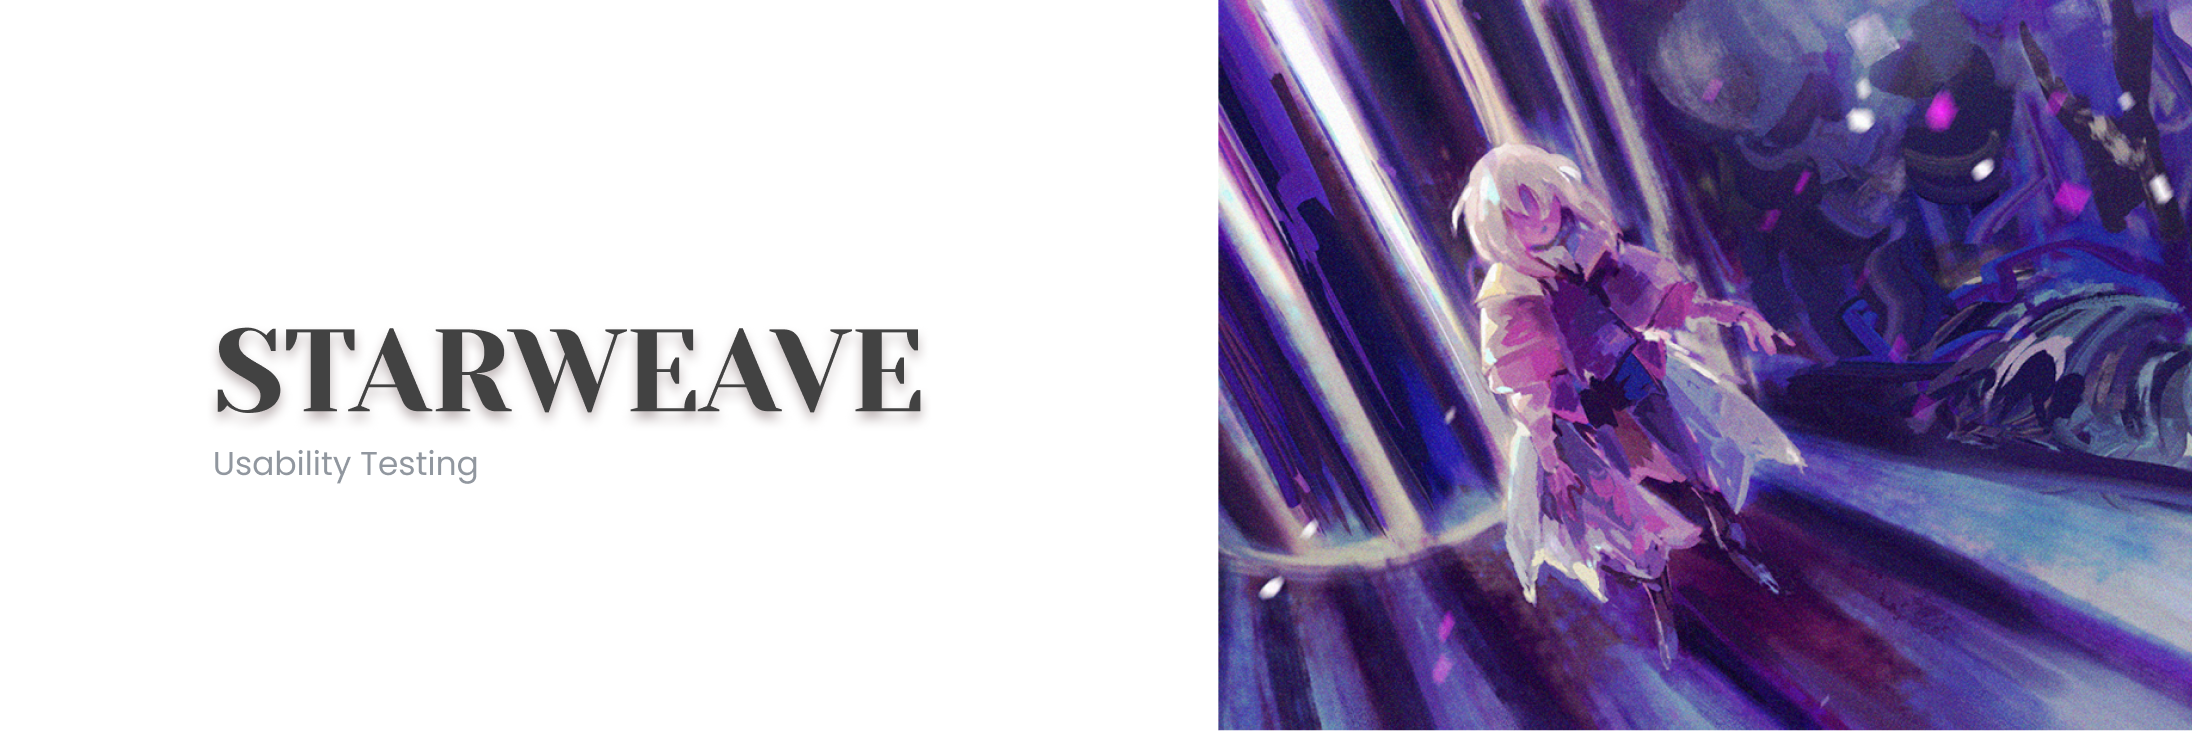
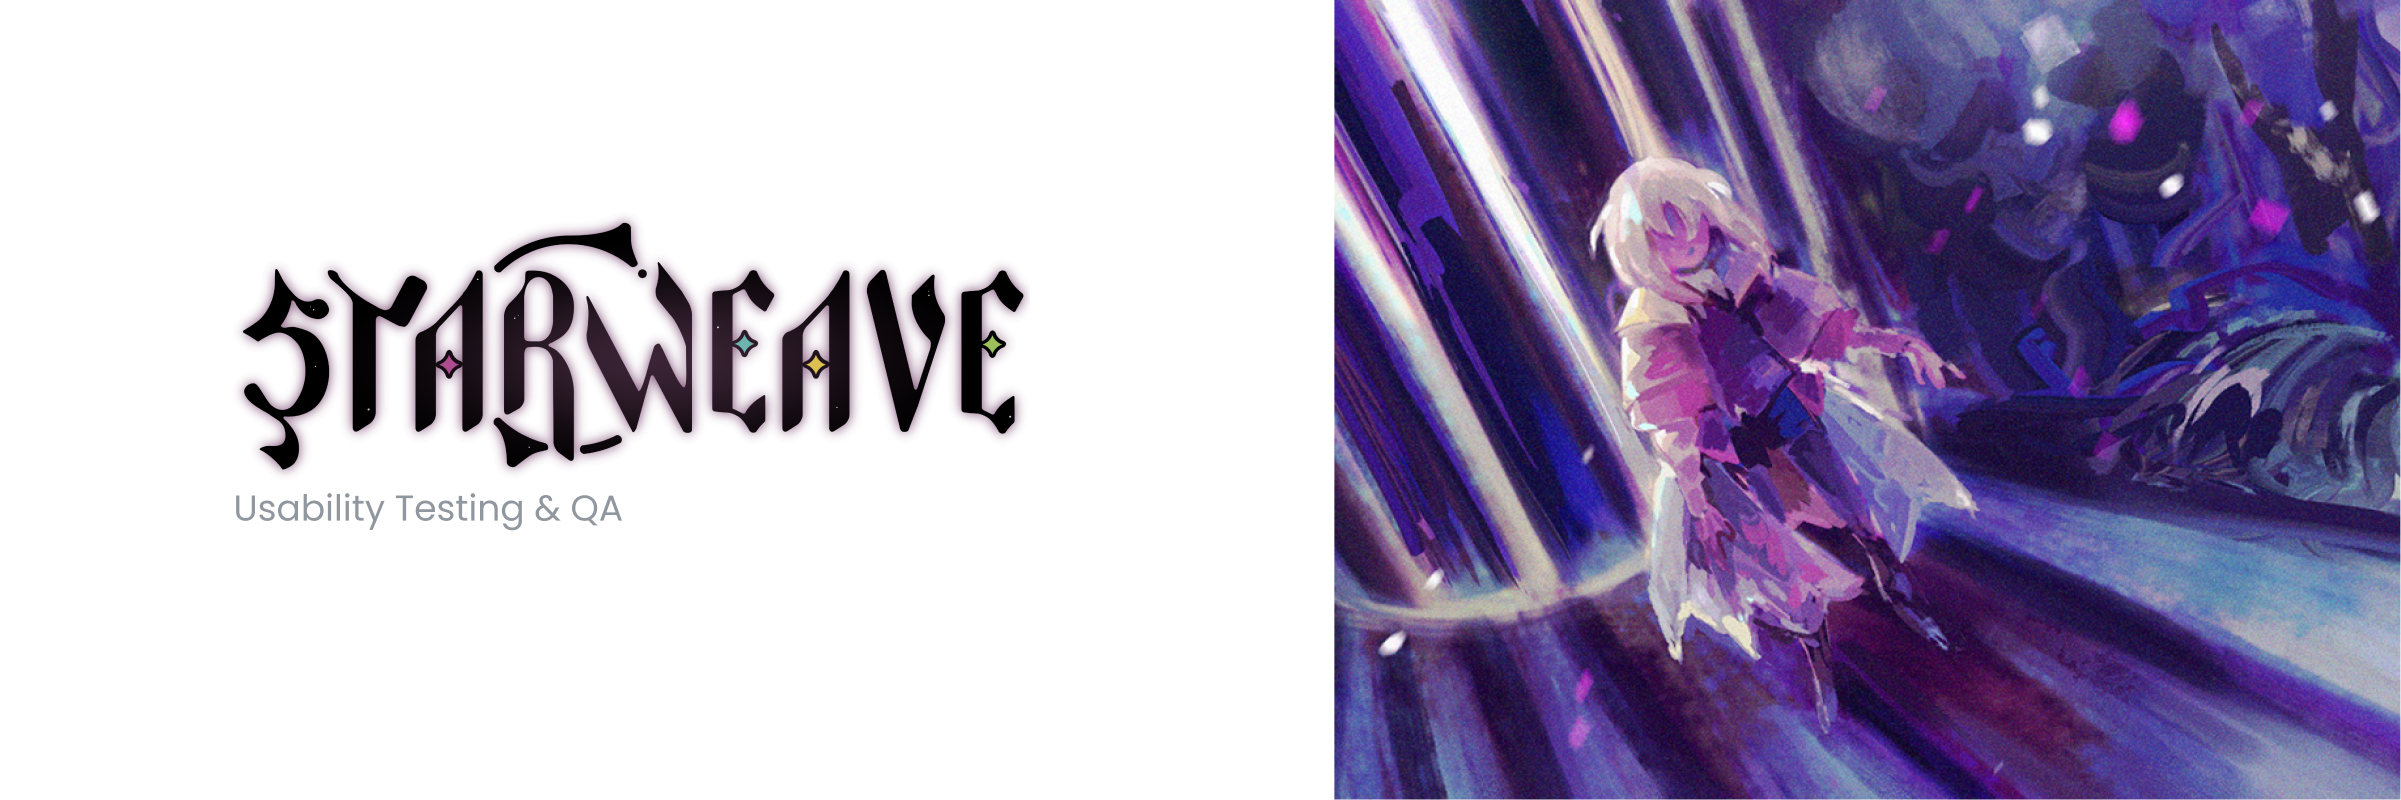
STARWEAVE project update

diff --git a/starweave.html b/starweave.html
@@ -76,6 +76,14 @@
             <li class="starweave-content-navigation-list-item">
               <a href="#project-overview">project overview</a>
             </li>
+
+            <li class="starweave-content-navigation-list-item">
+              <a href="#timeline">timeline</a>
+            </li>
+
+            <li class="starweave-content-navigation-list-item">
+              <a href="#playtesting process">playtesting process</a>
+            </li>
           </ul>
         </nav>
       </div>
@@ -92,8 +100,8 @@
           <h2 class="starweave-content-description-subtitle">project overview —</h2>
           <!-- "starweave-content-description-content" is the class required for a paragraph of content for the section -->
           <p class="starweave-content-description-content">
-            <i>STARWEAVE</i> is a single-player narrative game that utilizes squad rpg and novel
-            command-refusal mechanics to tell a story about unsuitable roels in a broken
+            STARWEAVE is a single-player narrative game that utilizes squad rpg and novel
+            command-refusal mechanics to tell a story about unsuitable roles in a broken
             system. Players will experience empathy and understand the nuances behind a
             cast of hurting teenagers.
           </p>
@@ -101,7 +109,7 @@
           <div class="starweave-content-description-table">
             <div class="starweave-content-description-table-element">
               <h3>role —</h3>
-              <p>usability tester & qa tester</p>
+              <p>usability & qa manager</p>
             </div>
             <div class="starweave-content-description-table-element">
               <h3>timeline —</h3>
@@ -109,18 +117,87 @@
             </div>
             <div class="starweave-content-description-table-element">
               <h3>skills —</h3>
-              <p>reporting bugs</p>
+              <p>test management</p>
+              <p>debugging</p>
             </div>
             <div class="starweave-content-description-table-element">
               <h3>tools —</h3>
+              <p>clickup</p>
               <p>google forms</p>
               <p>zoom</p>
             </div>
           </div>
         </div>
         <p class="starweave-content-description-image-caption">
-          This project is currently WIP :D Come back later for more information!
+          <b>This project is currently WIP :D Come back later for more information!</b>
         </p>
+
+        <!-- new page section that is included in the page menu -->
+        <div class="starweave-content-description-section" id="timeline">
+          <h2 class="starweave-content-description-subtitle">timeline —</h2>
+          <img class="starweave-content-description-visual" src="assets/starweave/starweave_timeline.png"
+            alt="STARWEAVE roadmap timeline and high-level milestone chart" />
+          <h6 class="starweave-content-description-image-caption">
+            STARWEAVE timeline
+            <br></br>
+          </h6>
+
+          <p class="starweave-content-description-content">
+            At STARWEAVE, I served as the Usability and QA Manager, overseeing a team of 60+ people across 9 teams. One
+            of my primary responsibilities was to <b>communicate directly with team leads and usability teammates to
+              schedule and run weekly playtests.</b> These playtests were <b>used in identifying bugs, usability issues,
+              and
+              other areas for improvement in our software development process.</b>
+          </p>
+
+          <img class="starweave-content-description-visual" src="assets/starweave/starweave_roadmap.jpg"
+            alt="STARWEAVE roadmap timeline" />
+          <h6 class="starweave-content-description-image-caption">
+            Example of the STARWEAVE Roadmap / High-Level Milestone Chart
+            <br></br>
+          </h6>
+        </div>
+
+        <!-- new page section that is included in the page menu -->
+        <div class="starweave-content-description-section" id="playtesting process">
+          <h2 class="starweave-content-description-subtitle">playtesting process —</h2>
+
+
+          <p class="starweave-content-description-content">
+            Since SW, is a narratively driven game, the <b>refusal mechanic and the system</b> behind it had to tested
+            many
+            times to <b>ensure that met design and engineer goals and expectations.</b>
+
+            I review the weekly usability reports, <b>prioritized issues based on severity and impact,</b> and
+            <b>reported
+              them to
+              the engineering team via ClickUp.</b> This process helped to ensure that the engineers had the
+            information they
+            needed to address critical issues quickly, minimizing downtime and keeping the project on track.
+          </p>
+
+          <img class="starweave-content-description-visual" src="assets/starweave/starweave_bugTracker.png"
+            alt="STARWEAVE internal bug tracking system on ClickUp">
+          <h6 class="starweave-content-description-image-caption">
+            Example of the STARWEAVE Engineering bug tracker on ClickUp
+          </h6>
+
+          <div class="starweave-content-description-images-container">
+            <img class="starweave-content-description-images-element" src="assets/starweave/starweave_graybox.png"
+              alt="STARWEAVE gray box" />
+            <img class="starweave-content-description-images-element" src="assets/starweave/starweave_combat.gif"
+              alt="STARWEAVE gameplay" />
+          </div>
+          <h6 class="starweave-content-description-image-caption">
+            Early gray boxing (left) and example of gameplay: combat mechanic (right)
+          </h6>
+          <img class="starweave-content-description-visual" src="assets/starweave/starweave_victory.png"
+            alt="STARWEAVE early Victory UI screen">
+          <h6 class="starweave-content-description-image-caption">
+            Early victory UI screen for SW
+          </h6>
+        </div>
+
       </div>
     </div>
   </div>

diff --git a/styles/starweave.css b/styles/starweave.css
@@ -387,5 +387,9 @@ ul {
   justify-content: space-between;
   align-items: flex-start;
   width: 100%;
-  margin: 15% 0%;
+  margin: 2% 0%;
+}
+
+.starweave-content-description-images-element {
+  width: 49%;
 }
